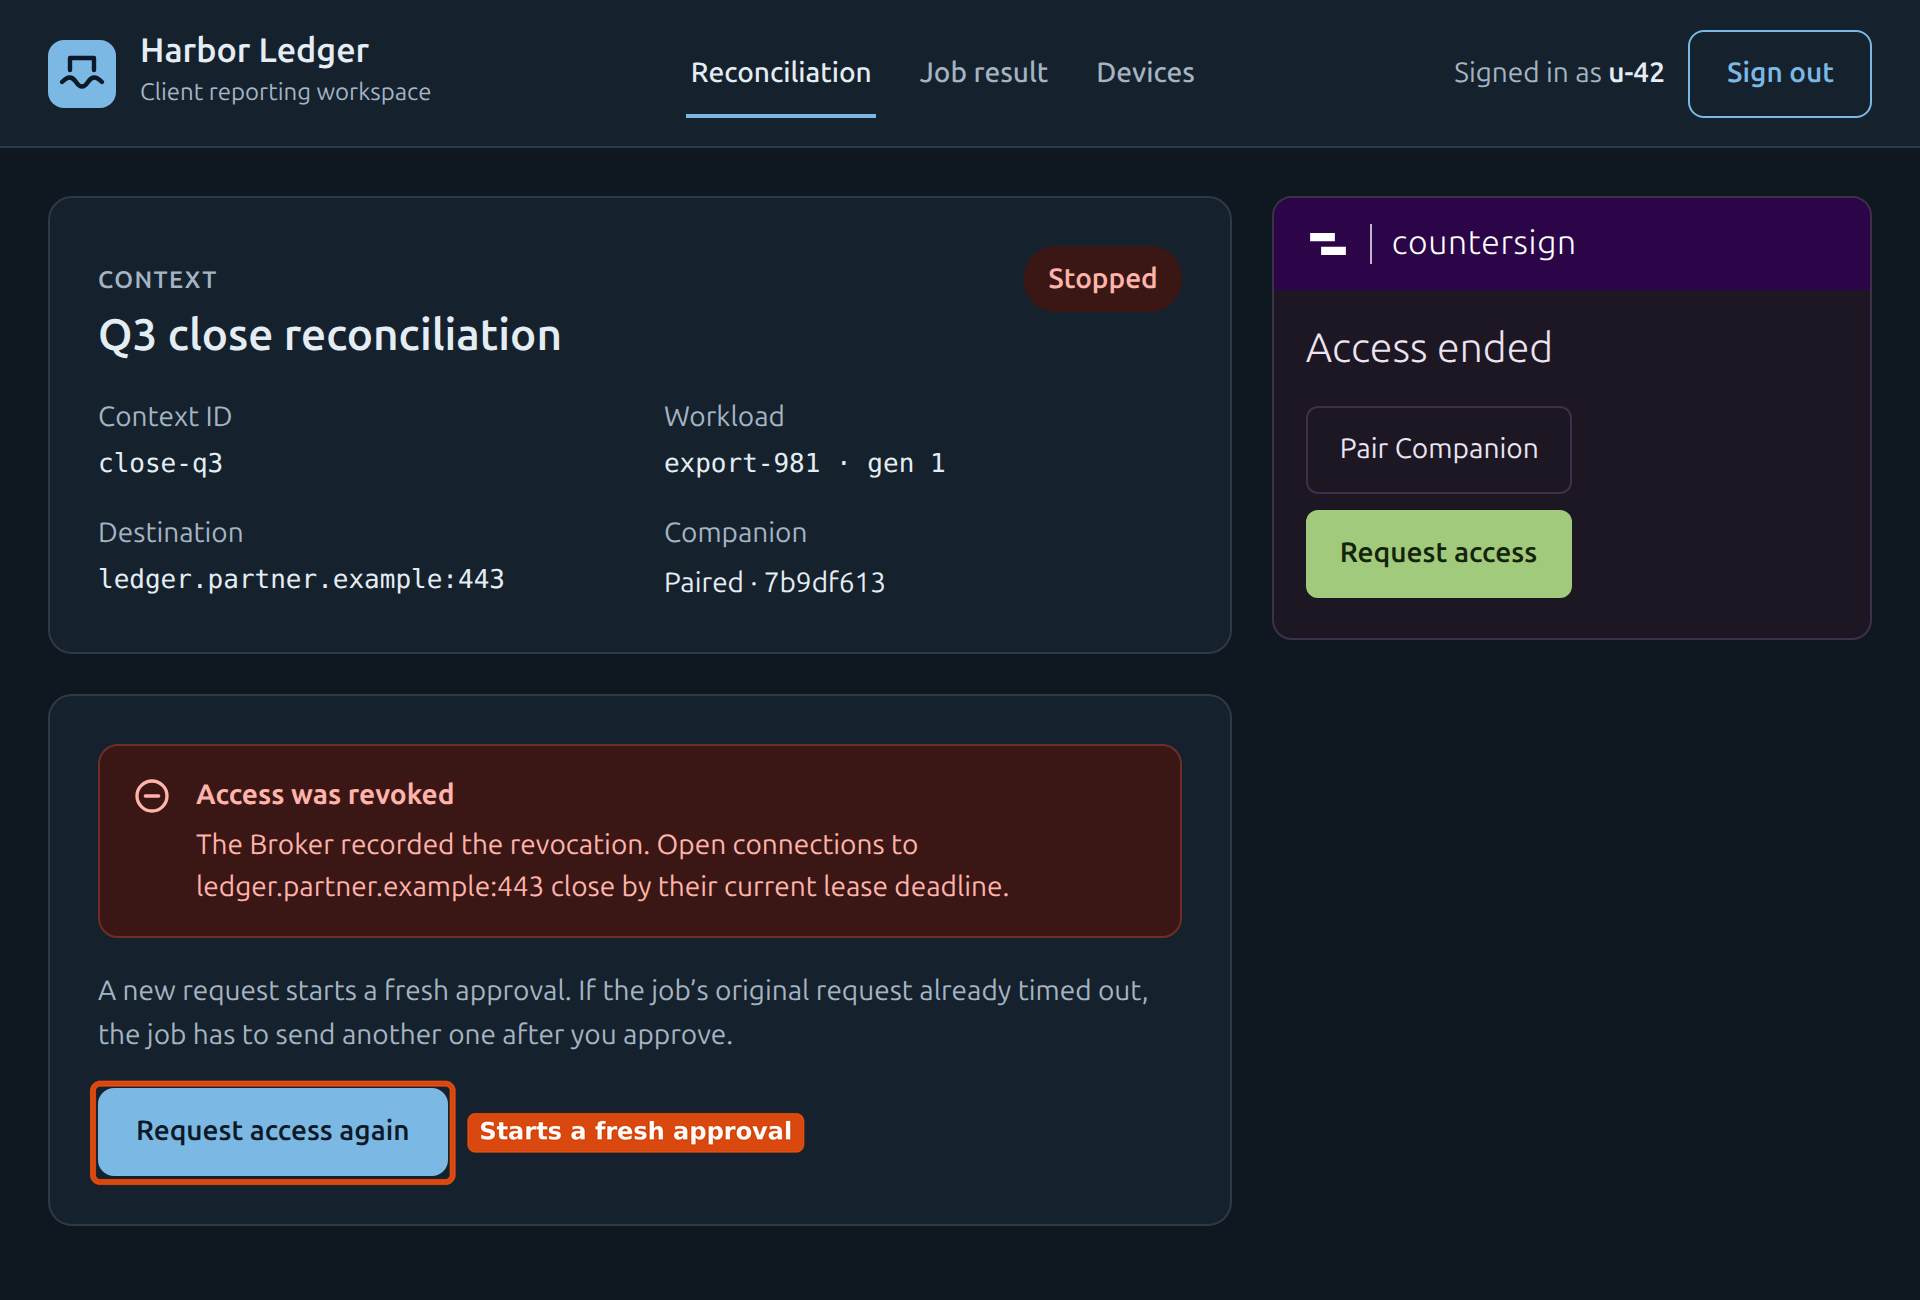
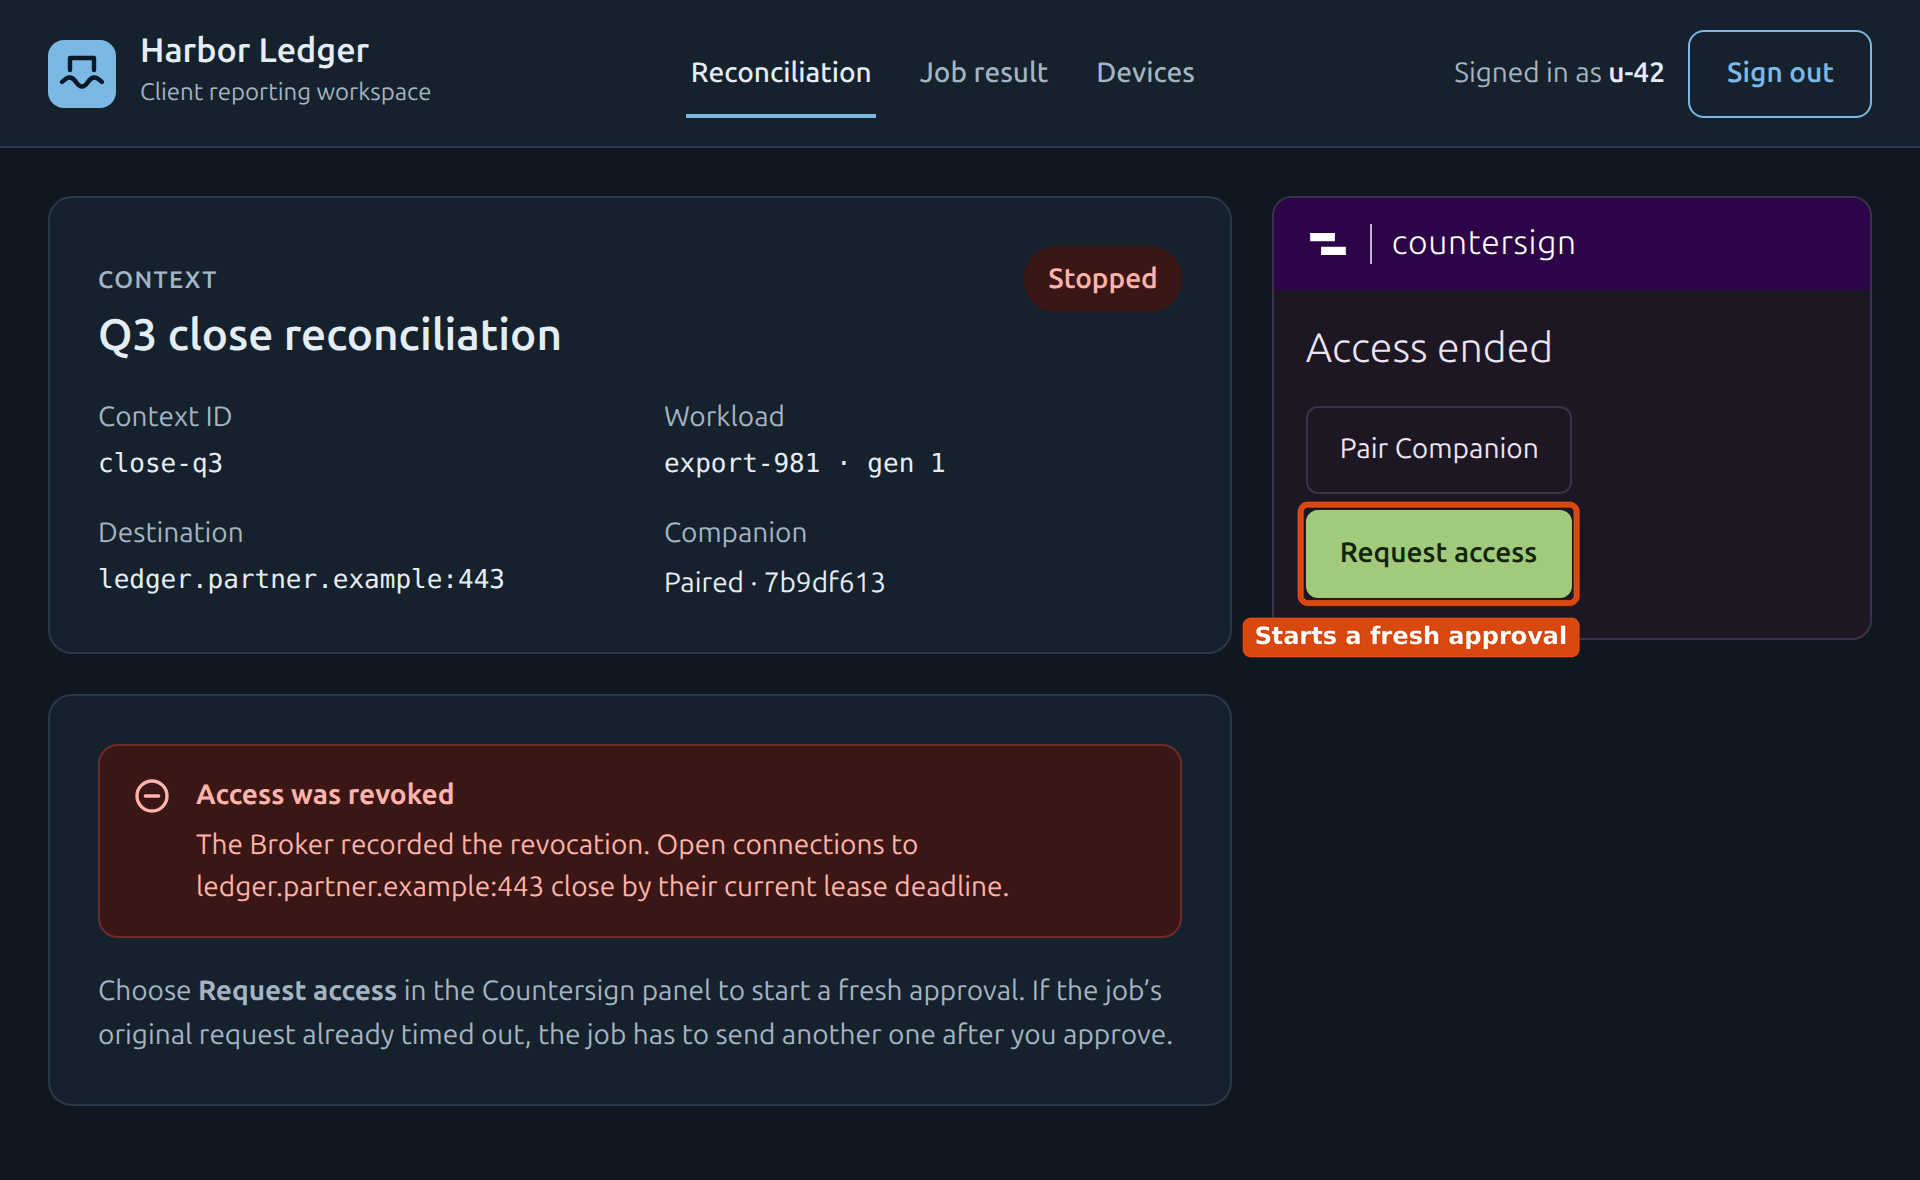
Leave one request button on the access-ended page
The ended view had its own "Request access again" button next to the
widget's "Request access", and both called the same connect flow. Drop
the page's copy, point the explanation at the widget, and move the
handbook callout to the widget button.

diff --git a/examples/demo-integrator/site/index.html b/examples/demo-integrator/site/index.html
@@ -113,8 +113,7 @@
         <svg viewBox="0 0 24 24" aria-hidden="true"><circle cx="12" cy="12" r="9"/><path d="M8 12h8"/></svg>
         <div><strong id="ended-title"></strong><span id="ended-body"></span></div>
       </div>
-      <p class="muted">A new request starts a fresh approval. If the job’s original request already timed out, the job has to send another one after you approve.</p>
-      <div class="actions"><button type="button" class="btn" data-act="again">Request access again</button></div>
+      <p class="muted">Choose <strong>Request access</strong> in the Countersign panel to start a fresh approval. If the job’s original request already timed out, the job has to send another one after you approve.</p>
     </section>
 
     <section class="card stack" data-view="devices" aria-labelledby="devices-title">

diff --git a/examples/demo-integrator/site/app.js b/examples/demo-integrator/site/app.js
@@ -249,12 +249,6 @@ document.querySelector('[data-act=revoke]').onclick = perform(async () => {
   clearTimeout(page.timer);
   render();
 });
-document.querySelector('[data-act=again]').onclick = perform(async () => {
-  const { id, state } = await post('connect');
-  page.renewal = false;
-  await track(id, state);
-  if (state === 'pending') widget.showRequest(id);
-});
 $('forget').onclick = perform(async () => {
   const target = page.devices.find(d => d.binding.pairing === new URL(location.href).searchParams.get('pairing'));
   if (!target) return;

diff --git a/scripts/annotate_screenshots.py b/scripts/annotate_screenshots.py
@@ -66,7 +66,7 @@ CALLOUTS: dict[str, tuple[str, list[tuple[str, ...]]]] = {
         ("progress", "Status from the Broker", "above-end"),
     ]),
     "access-ended.png": ("access-ended.png", [
-        ("again", "Starts a fresh approval", "right"),
+        ("again", "Starts a fresh approval", "below-end"),
     ]),
     "job-result.png": ("job-result.png", [
         ("match", "Same SHA-256 as the approval", "right"),

diff --git a/docs/integrate.md b/docs/integrate.md
@@ -76,6 +76,6 @@ Query `status` with the session-derived user ID and the approval ID. Show “App
 
 Retire the Workload when the job exits. Close the Context when the reconciliation itself ends. To withdraw one grant earlier, revoke its approval ID. After a denial, expiry or revocation, say how access ended and offer a fresh request.
 
-![The demo Integrator's page after revocation, explaining that open connections close by their lease deadline and offering Request access again.](assets/screenshots/access-ended.png#gh-light-mode-only)![The demo Integrator's page after revocation, explaining that open connections close by their lease deadline and offering Request access again.](assets/screenshots/access-ended-dark.png#gh-dark-mode-only)
+![The demo Integrator's page after revocation, explaining that open connections close by their lease deadline and pointing to the widget's Request access button for a fresh approval.](assets/screenshots/access-ended.png#gh-light-mode-only)![The demo Integrator's page after revocation, explaining that open connections close by their lease deadline and pointing to the widget's Request access button for a fresh approval.](assets/screenshots/access-ended-dark.png#gh-dark-mode-only)
 
  In the demo, the upstream requires a client certificate and returns the leaf fingerprint it actually received. Compare it with the identity selected in the Companion. [Demo upstream](https://github.com/zeroae/countersign/blob/fbb5aa7c951f8b70a238f3351140aa44a6184adf/examples/demo-integrator/upstream.js)
